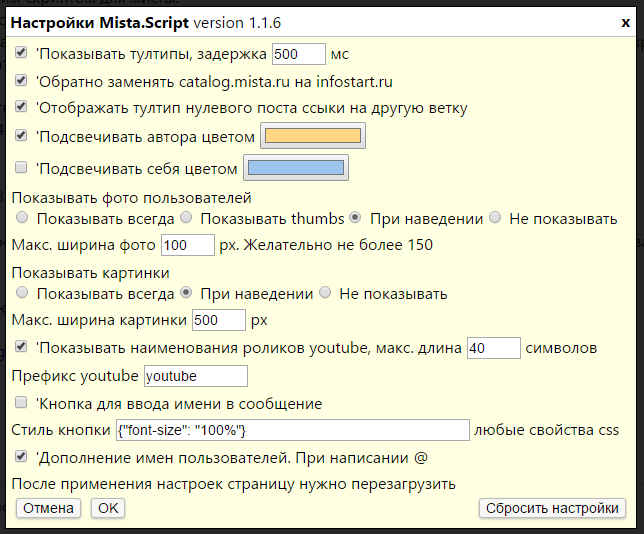
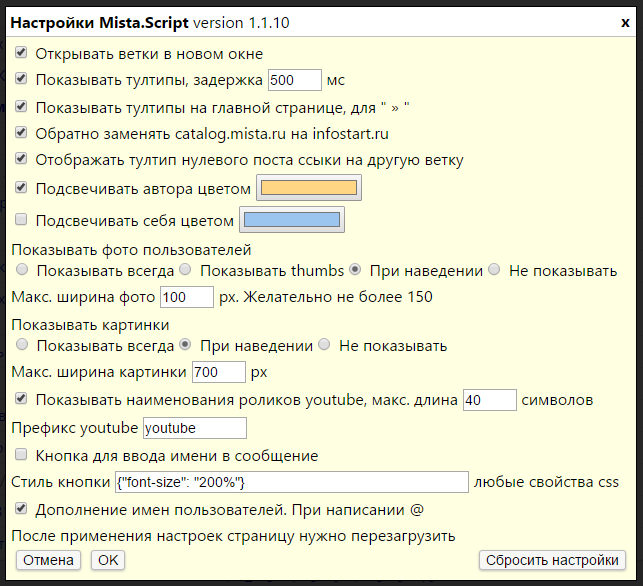
open links in new window

Changed region(s): [[0.0, 0.0, 1.0, 1.0]]

diff --git a/user.js b/user.js
@@ -1,7 +1,7 @@
 // ==UserScript==
 // @name         mista.ru
 // @namespace    http://tampermonkey.net/
-// @version      1.1.9
+// @version      1.1.10
 // @description  Make mista great again!
 // @author       acsent
 // @match        *.mista.ru/*
@@ -13,7 +13,7 @@
 // @updateURL    https://cdn.jsdelivr.net/gh/a-sitnikov/mista.js@latest/user.js
 // ==/UserScript==
 
-const mistaScriptVersion = '1.1.9';
+const mistaScriptVersion = '1.1.10';
 let tooltipsOrder = [];
 let tooltipsMap = {};
 let currentTopicId = 0;
@@ -21,7 +21,9 @@ let yourUrl;
 let topicAuthor;
 
 let options = new Map([
+    ["open-in-new_window",    {default: "true",        type: "checkbox", label: "Открывать ветки в новом окне"}],
     ["show-tooltips",         {default: "true",        type: "checkbox", label: "Показывать тултипы, задержка"}],
+    ["show-tooltips-on-main", {default: "true",        type: "checkbox", label: "Показывать тултипы на главной странице, для \" » \" "}],
     ["tooltip-delay",         {default: "500",         type: "input",    label: "", suffix: "мс", width: "50"}],
     ["replace-catalog-to-is", {default: "true",        type: "checkbox", label: "Обратно заменять catalog.mista.ru на infostart.ru"}],
     ["mark-author",           {default: "true",        type: "checkbox", label: "Подсвечивать автора цветом"}],
@@ -44,7 +46,9 @@ let options = new Map([
 ]);
 
 let formOptions = [
+    ['open-in-new_window'],
     ['show-tooltips', 'tooltip-delay'],
+    ['show-tooltips-on-main'],
     ['replace-catalog-to-is'],
     ['first-post-tooltip'],
     ['mark-author', 'author-color'],
@@ -100,9 +104,7 @@ function processLinkToMistaCatalog(element, url) {
 
 // ----------------Options-------------------------------------
 function readAllOptions(){
-    //let keys = Object.keys(options);
     for (let [name, option] of options) {
-        //let name = keys[i];
         option.value = readOption(name, option.default);
     }
 }
@@ -158,7 +160,7 @@ function openMistaScriptOptions(){
             if (option.type === 'checkbox') {
                 html +=
                     `<input id="${name}" type="checkbox" name="${name}">
-                    '<label for="${name}">${option.label}</label>`;
+                     <label for="${name}">${option.label}</label>`;
 
             } else if (option.type === 'input' || option.type === 'color') {
                 if (option.label){
@@ -373,7 +375,7 @@ function attachTooltip(link, id, loadDataFunc) {
     });
 
     $(link).mousedown(function(event){
-        if (event.which === 3) clearTimeout(timer); // left mouse button
+        clearTimeout(timer);
     });
 }
 
@@ -605,12 +607,19 @@ function run(parentElemHeader, parentElemText, onlyBindEvents){
 
     // main page
     if (!parentElemText) {
-        $('a[href$="last20#F"]', 'td[id^="tt"]').each(function(a){
+        if (options.get('show-tooltips-on-main').value === 'true') {
+            $('a[href$="last20#F"]', 'td[id^="tt"]').each(function(a){
 
-            let url = $(this).attr('href');
-            if (processLinkToPost(this, url, true)) return;
+                let url = $(this).attr('href');
+                if (processLinkToPost(this, url, true)) return;
 
-        });
+            });
+        }
+        if (options.get('open-in-new_window').value === 'true') {
+            $('a', 'td[id^="tt"]').each(function(a){
+                $(this).prop("target", "_blank");
+            });
+        }
     }
 
     parentElemHeader = parentElemHeader || $('td[id^=tduser]');

diff --git a/es5_user.js b/es5_user.js
@@ -5,7 +5,7 @@ var _slicedToArray = function () { function sliceIterator(arr, i) { var _arr = [
 // ==UserScript==
 // @name         mista.ru
 // @namespace    http://tampermonkey.net/
-// @version      1.1.8
+// @version      1.1.9
 // @description  Make mista great again!
 // @author       acsent
 // @match        *.mista.ru/*
@@ -17,7 +17,7 @@ var _slicedToArray = function () { function sliceIterator(arr, i) { var _arr = [
 // @updateURL    https://cdn.jsdelivr.net/gh/a-sitnikov/mista.js@latest/user.js
 // ==/UserScript==
 
-var mistaScriptVersion = '1.1.8';
+var mistaScriptVersion = '1.1.9';
 var tooltipsOrder = [];
 var tooltipsMap = {};
 var currentTopicId = 0;
@@ -358,6 +358,16 @@ function setMsgText(topicId, msgId, elemHeader, elemText) {
 
 function setMsgTextAjax(topicId, msgId, elemHeader, elemText) {
 
+    if (msgId === 'F') {
+        $.ajax({
+            url: "ajax_gettopic.php?id=" + topicId
+        }).done(function (data) {
+            var dataObj = JSON.parse(data);
+            setMsgTextAjax(topicId, dataObj.answers_count, elemHeader, elemText);
+        });
+        return;
+    }
+
     var apiUrl = "ajax_topic.php?id=" + topicId + "&from=" + msgId + "&to=" + (+msgId + 1);
 
     $.ajax({
@@ -373,7 +383,7 @@ function setMsgTextAjax(topicId, msgId, elemHeader, elemText) {
         });
         if (msgArr.length === 1) {
             var msg = msgArr[0];
-            var text = msg.text.replace(/\(([0-9]+)\)/g, "<a href='#$1'>($1)</a>");
+            var text = msg.text.replace(/\(([0-9]+)\)/g, '<a href="topic.php?id=' + topicId + '#$1">($1)</a>');
             var user = "<b>" + msg.user + "</b><br>\n                 <span class='message-info'>" + msg.n + "  - " + utimeToDate(msg.utime) + "</span>";
             elemText.html(text);
             if (elemHeader) elemHeader.html(user);
@@ -426,16 +436,20 @@ function attachTooltip(link, id, loadDataFunc) {
         // on mouse out, cancel the timer
         clearTimeout(timer);
     });
+
+    $(link).mousedown(function (event) {
+        if (event.which === 3) clearTimeout(timer); // left mouse button
+    });
 }
 
 function processLinkToPost(element, url, onlyBindEvents) {
     var topicId = void 0,
         msgId = void 0;
     try {
-        topicId = url.match(/topic.php\?id=([0-9]+)($|\&)/)[1];
+        topicId = url.match(/topic.php\?id=([0-9]+)($|\&|#)/)[1];
     } catch (e) {}
     try {
-        msgId = url.match(/#([0-9]+)/)[1];
+        msgId = url.match(/#(F|[0-9]+)/)[1];
     } catch (e) {}
 
     if (!topicId && !msgId) return false;
@@ -447,7 +461,7 @@ function processLinkToPost(element, url, onlyBindEvents) {
         if (options.get('first-post-tooltip').value !== 'true') {
             return true;
         } else {
-            if (!onlyBindEvents) $('<span class="agh" style="cursor: pointer">[?]</span>').insertAfter($(element));
+            if (!onlyBindEvents && $(element).text().search(/\([0-9]+\)/) === -1) $('<span class="agh" style="cursor: pointer">[?]</span>').insertAfter($(element));
         }
     }
 
@@ -650,6 +664,15 @@ function processLinkToYourself(element, url, onlyBindEvents) {
 
 // ----------------Run-----------------------------------------
 function run(parentElemHeader, parentElemText, onlyBindEvents) {
+
+    // main page
+    if (!parentElemText) {
+        $('a[href$="last20#F"]', 'td[id^="tt"]').each(function (a) {
+
+            var url = $(this).attr('href');
+            if (processLinkToPost(this, url, true)) return;
+        });
+    }
 
     parentElemHeader = parentElemHeader || $('td[id^=tduser]');
     parentElemText = parentElemText || $('td[id^=tdmsg]');
